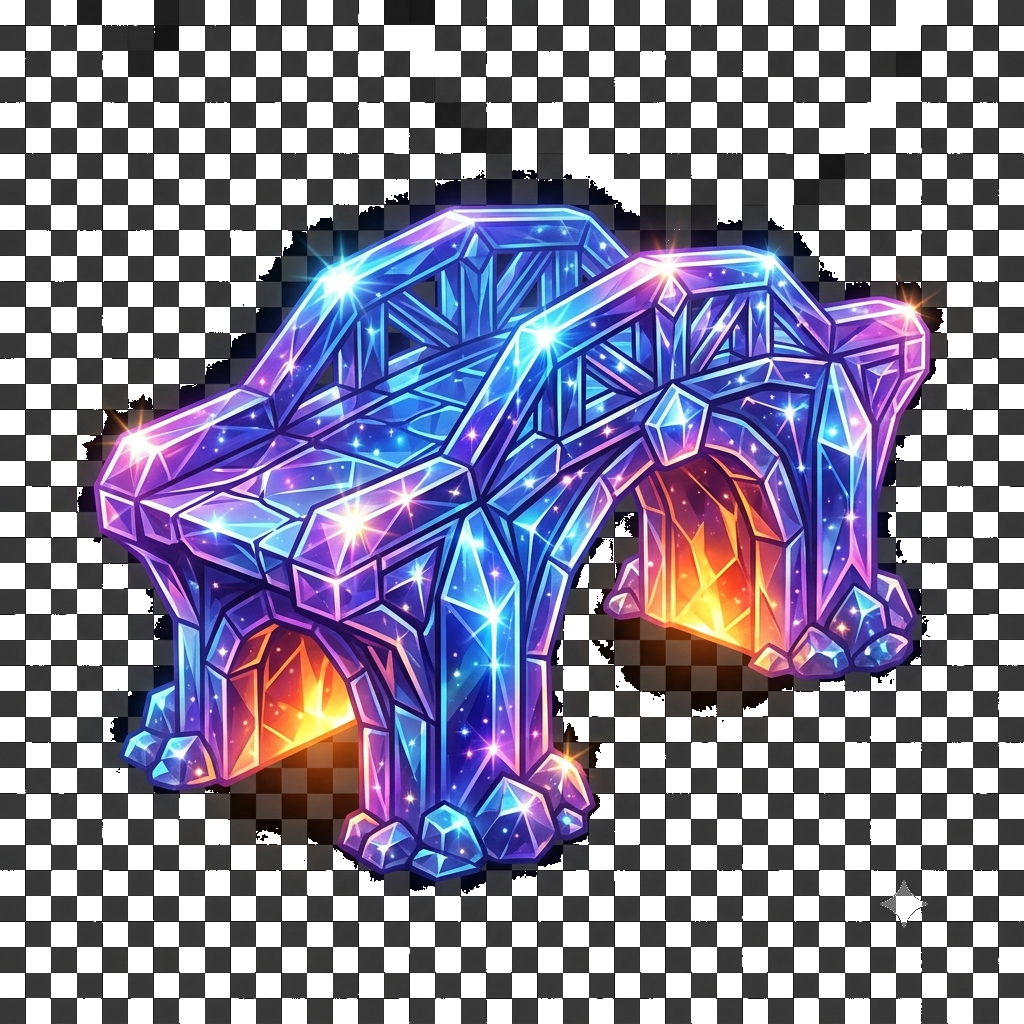
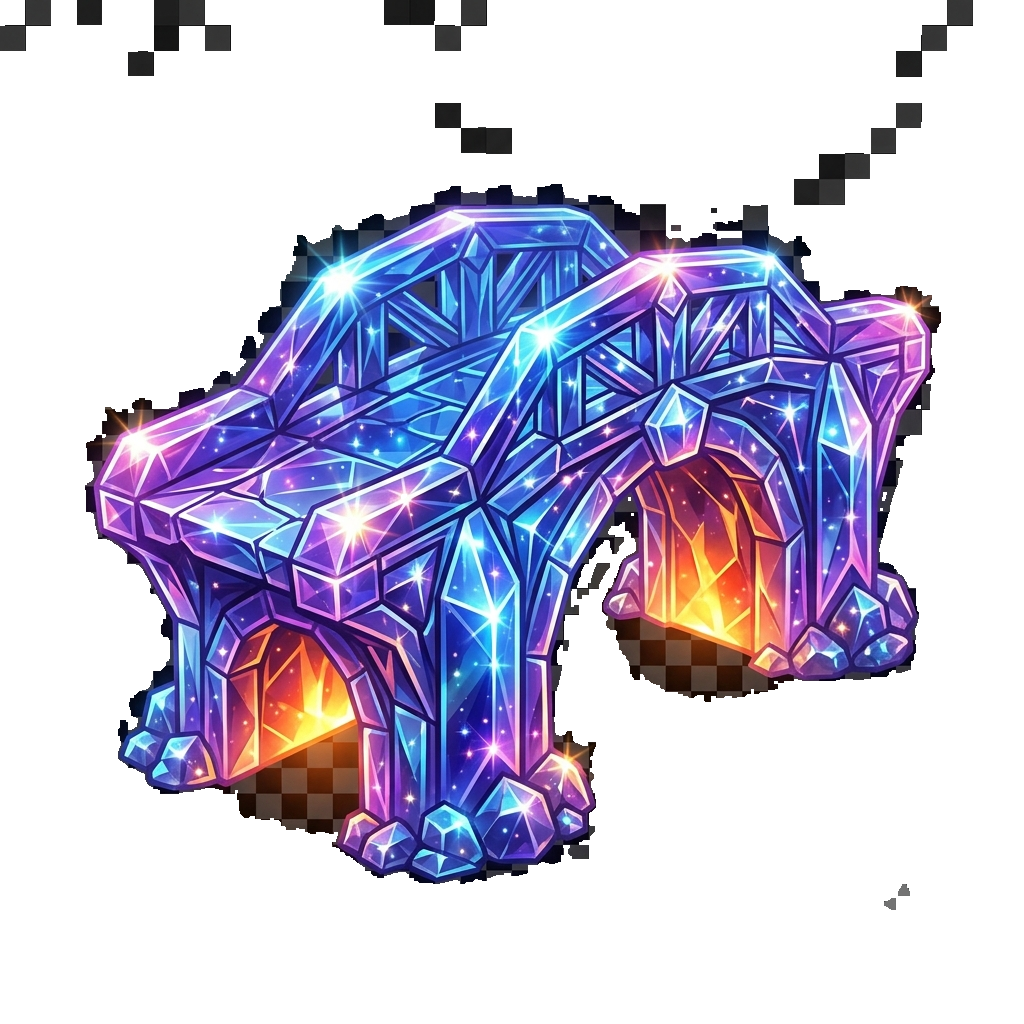
Arreglar transparencia rota de puente/cárcel/minijuego y sumar pulido visual al tablero
Se detectó que puente.png, carcel.png y minijuego.png nunca tuvieron la
transparencia bien aplicada: quedaba un cuadriculado gris (checkerboard)
opaco atravesando el arte, visible en el tablero. Se midió el período
real del cuadriculado por imagen (51px en puente/cárcel, 17px en
minijuego, igual que el del dado) y se limpió con la misma técnica de
diferencia-con-vecino-periódico ya usada esta sesión para el dado.

De paso, primer pase de pulido "candy" sobre el tablero mientras se
evalúa si el estilo plano actual es el que se busca o hace falta algo
más cercano a un diorama ilustrado (pendiente de definir con el
usuario): camino en 3 capas con relieve (FondoCandy no incluye esto,
es en tablero_widget), fondo con manchas de color difuminadas y
brillitos (fondo_candy.dart), casillas con brillo de gomita arriba a
la izquierda, y botón "Tirar el dado" con relieve 3D (boton_candy.dart)
en vez del ElevatedButton plano.

Claude-Session: https://claude.ai/code/session_01CZpFecnhuZMw1LapRQwjQ1

diff --git a/ocaland_app/lib/screens/board_screen.dart b/ocaland_app/lib/screens/board_screen.dart
@@ -13,7 +13,9 @@ import '../models/avatar_sprite_set.dart';
 import '../models/usuario.dart';
 import '../services/supabase_service.dart';
 import '../theme/paleta_bloque.dart';
+import '../widgets/board/boton_candy.dart';
 import '../widgets/board/dado_widget.dart';
+import '../widgets/board/fondo_candy.dart';
 import '../widgets/board/tablero_widget.dart';
 import '../widgets/effects/efectos_visuales.dart';
 import 'cuestionados_dialog.dart';
@@ -475,44 +477,42 @@ class _BoardScreenState extends State<BoardScreen> {
         backgroundColor: paleta.colorAppBar,
         title: Text('Etapa ${_controller.etapa}: ${_etapaInfo.nombre}'),
       ),
-      body: DecoratedBox(
-        decoration: BoxDecoration(
-          gradient: LinearGradient(
-            begin: Alignment.topCenter,
-            end: Alignment.bottomCenter,
-            colors: paleta.gradiente,
+      body: Stack(
+        children: [
+          Positioned.fill(
+            child: FondoCandy(gradiente: paleta.gradiente, acento: paleta.colorAcento),
           ),
-        ),
-        child: SafeArea(
-          child: Padding(
-            padding: const EdgeInsets.all(12),
-            child: Column(
-              children: [
-                Expanded(child: TableroWidget(
-                  layout: _controller.layout,
-                  camino: _controller.camino,
-                  posJugador: _controller.posJugador,
-                  posBot: _controller.posBot,
-                  spriteJugador: _avatarJugador?.caminata,
-                  frameJugador: _frameCaminataJugador,
-                  spriteBot: _avatarBot?.caminata,
-                  frameBot: _frameCaminataBot,
-                )),
-                const SizedBox(height: 8),
-                DadoWidget(controller: _dadoController, tamano: 56),
-                const SizedBox(height: 8),
-                Text(_mensaje, textAlign: TextAlign.center),
-                const SizedBox(height: 12),
-                ElevatedButton.icon(
-                  style: ElevatedButton.styleFrom(backgroundColor: paleta.colorAcento),
-                  onPressed: esperandoJugador ? _tirarDadoJugador : null,
-                  icon: const Icon(Icons.casino),
-                  label: const Text('Tirar el dado'),
-                ),
-              ],
+          SafeArea(
+            child: Padding(
+              padding: const EdgeInsets.all(12),
+              child: Column(
+                children: [
+                  Expanded(child: TableroWidget(
+                    layout: _controller.layout,
+                    camino: _controller.camino,
+                    posJugador: _controller.posJugador,
+                    posBot: _controller.posBot,
+                    spriteJugador: _avatarJugador?.caminata,
+                    frameJugador: _frameCaminataJugador,
+                    spriteBot: _avatarBot?.caminata,
+                    frameBot: _frameCaminataBot,
+                  )),
+                  const SizedBox(height: 8),
+                  DadoWidget(controller: _dadoController, tamano: 56),
+                  const SizedBox(height: 8),
+                  Text(_mensaje, textAlign: TextAlign.center),
+                  const SizedBox(height: 12),
+                  BotonCandy(
+                    icono: Icons.casino,
+                    etiqueta: 'Tirar el dado',
+                    color: paleta.colorAcento,
+                    onPressed: esperandoJugador ? _tirarDadoJugador : null,
+                  ),
+                ],
+              ),
             ),
           ),
-        ),
+        ],
       ),
     );
   }

diff --git a/ocaland_app/lib/widgets/board/tablero_widget.dart b/ocaland_app/lib/widgets/board/tablero_widget.dart
@@ -133,13 +133,6 @@ class _CaminoPainter extends CustomPainter {
 
   @override
   void paint(Canvas canvas, Size size) {
-    final paint = Paint()
-      ..color = Colors.white.withValues(alpha: 0.65)
-      ..strokeWidth = 10
-      ..strokeCap = StrokeCap.round
-      ..strokeJoin = StrokeJoin.round
-      ..style = PaintingStyle.stroke;
-
     final path = Path();
     for (var i = 0; i < puntos.length; i++) {
       final p = Offset(puntos[i].dx * size.width, puntos[i].dy * size.height);
@@ -149,7 +142,24 @@ class _CaminoPainter extends CustomPainter {
         path.lineTo(p.dx, p.dy);
       }
     }
-    canvas.drawPath(path, paint);
+
+    // Camino en 3 capas (borde + cuerpo + brillo central) para que se
+    // vea como un sendero con relieve en vez de una línea plana.
+    void trazo(double ancho, double alpha) {
+      canvas.drawPath(
+        path,
+        Paint()
+          ..color = Colors.white.withValues(alpha: alpha)
+          ..strokeWidth = ancho
+          ..strokeCap = StrokeCap.round
+          ..strokeJoin = StrokeJoin.round
+          ..style = PaintingStyle.stroke,
+      );
+    }
+
+    trazo(17, 0.28);
+    trazo(11, 0.75);
+    trazo(3.5, 0.95);
   }
 
   @override
@@ -195,17 +205,46 @@ class _CasillaCirculo extends StatelessWidget {
           colors: [_colorFondo.withValues(alpha: 0.85), _colorFondo],
           center: const Alignment(-0.3, -0.3),
         ),
-        border: Border.all(color: Colors.white, width: 2),
+        border: Border.all(color: Colors.white, width: 2.5),
         boxShadow: [
           BoxShadow(
-            color: Colors.black.withValues(alpha: 0.2),
-            blurRadius: 3,
-            offset: const Offset(0, 2),
+            color: Colors.black.withValues(alpha: 0.22),
+            blurRadius: 4,
+            offset: const Offset(0, 3),
           ),
         ],
       ),
-      child: Center(
-        child: tipo == TipoCasilla.oca
+      child: Stack(
+        alignment: Alignment.center,
+        children: [
+          // Brillo de "gomita" arriba a la izquierda, para que no se
+          // vea como un círculo de color liso.
+          Positioned(
+            top: radio * 0.14,
+            left: radio * 0.3,
+            child: Container(
+              width: radio * 0.85,
+              height: radio * 0.45,
+              decoration: BoxDecoration(
+                shape: BoxShape.circle,
+                gradient: RadialGradient(
+                  colors: [
+                    Colors.white.withValues(alpha: 0.6),
+                    Colors.white.withValues(alpha: 0),
+                  ],
+                ),
+              ),
+            ),
+          ),
+          _contenido(tipo, posicion, radio),
+        ],
+      ),
+    );
+  }
+
+  Widget _contenido(TipoCasilla tipo, int posicion, double radio) {
+    return Center(
+      child: tipo == TipoCasilla.oca
             ? CicloIconoAnimado(
                 frames: CasillaIconos.framesOca,
                 alto: radio * 1.2,
@@ -232,7 +271,6 @@ class _CasillaCirculo extends StatelessWidget {
             : posicion == 0
             ? const Icon(Icons.flag, color: Colors.white, size: 16)
             : null,
-      ),
     );
   }
 }

diff --git a/ocaland_app/lib/widgets/board/boton_candy.dart b/ocaland_app/lib/widgets/board/boton_candy.dart
@@ -1,0 +1,93 @@
+import 'package:flutter/material.dart';
+
+/// Botón "gomita" tipo Candy Crush: capa de sombra sólida debajo +
+/// capa principal con degradé claro-oscuro y borde blanco, para que se
+/// vea con relieve en vez de un botón Material plano.
+class BotonCandy extends StatelessWidget {
+  const BotonCandy({
+    super.key,
+    required this.icono,
+    required this.etiqueta,
+    required this.color,
+    this.onPressed,
+  });
+
+  final IconData icono;
+  final String etiqueta;
+  final Color color;
+  final VoidCallback? onPressed;
+
+  @override
+  Widget build(BuildContext context) {
+    final habilitado = onPressed != null;
+    final base = habilitado ? color : Colors.grey.shade400;
+    final hsl = HSLColor.fromColor(base);
+    final sombra = hsl.withLightness((hsl.lightness - 0.18).clamp(0.0, 1.0)).toColor();
+    final claro = hsl.withLightness((hsl.lightness + 0.18).clamp(0.0, 1.0)).toColor();
+
+    return Opacity(
+      opacity: habilitado ? 1 : 0.6,
+      child: SizedBox(
+        width: 230,
+        height: 62,
+        child: Stack(
+          clipBehavior: Clip.none,
+          children: [
+            Positioned(
+              top: 8,
+              left: 0,
+              right: 0,
+              child: Container(
+                height: 52,
+                decoration: BoxDecoration(
+                  color: sombra,
+                  borderRadius: BorderRadius.circular(18),
+                ),
+              ),
+            ),
+            Positioned(
+              top: 0,
+              left: 0,
+              right: 0,
+              child: Material(
+                color: Colors.transparent,
+                borderRadius: BorderRadius.circular(18),
+                child: InkWell(
+                  onTap: onPressed,
+                  borderRadius: BorderRadius.circular(18),
+                  child: Container(
+                    height: 52,
+                    decoration: BoxDecoration(
+                      gradient: LinearGradient(
+                        begin: Alignment.topCenter,
+                        end: Alignment.bottomCenter,
+                        colors: [claro, base],
+                      ),
+                      borderRadius: BorderRadius.circular(18),
+                      border: Border.all(color: Colors.white, width: 2.5),
+                    ),
+                    child: Row(
+                      mainAxisAlignment: MainAxisAlignment.center,
+                      children: [
+                        Icon(icono, color: Colors.white),
+                        const SizedBox(width: 8),
+                        Text(
+                          etiqueta,
+                          style: const TextStyle(
+                            color: Colors.white,
+                            fontWeight: FontWeight.bold,
+                            fontSize: 16,
+                          ),
+                        ),
+                      ],
+                    ),
+                  ),
+                ),
+              ),
+            ),
+          ],
+        ),
+      ),
+    );
+  }
+}

diff --git a/ocaland_app/lib/widgets/board/fondo_candy.dart b/ocaland_app/lib/widgets/board/fondo_candy.dart
@@ -1,0 +1,76 @@
+import 'package:flutter/material.dart';
+
+/// Fondo del tablero con profundidad tipo Candy Crush: además del
+/// degradé por bloque de etapas, agrega manchas de color difuminadas
+/// detrás del camino y algunos brillitos, para que no se vea plano.
+class FondoCandy extends StatelessWidget {
+  const FondoCandy({super.key, required this.gradiente, required this.acento});
+
+  final List<Color> gradiente;
+  final Color acento;
+
+  @override
+  Widget build(BuildContext context) {
+    return Stack(
+      fit: StackFit.expand,
+      children: [
+        DecoratedBox(
+          decoration: BoxDecoration(
+            gradient: LinearGradient(
+              begin: Alignment.topCenter,
+              end: Alignment.bottomCenter,
+              colors: gradiente,
+            ),
+          ),
+        ),
+        _mancha(top: -50, left: -60, diametro: 220, color: acento),
+        _mancha(top: 130, right: -80, diametro: 260, color: gradiente.last),
+        _mancha(bottom: 90, left: -60, diametro: 210, color: gradiente.first),
+        _mancha(bottom: -70, right: -40, diametro: 240, color: acento),
+        _brillito(-0.82, -0.86, tamano: 16),
+        _brillito(0.72, -0.6, tamano: 12),
+        _brillito(0.6, 0.02, tamano: 20, opacidad: 0.35),
+        _brillito(-0.62, 0.32, tamano: 14),
+        _brillito(0.8, 0.68, tamano: 18, opacidad: 0.45),
+        _brillito(-0.3, 0.88, tamano: 12),
+      ],
+    );
+  }
+
+  Widget _mancha({
+    double? top,
+    double? bottom,
+    double? left,
+    double? right,
+    required double diametro,
+    required Color color,
+  }) {
+    return Positioned(
+      top: top,
+      bottom: bottom,
+      left: left,
+      right: right,
+      child: Container(
+        width: diametro,
+        height: diametro,
+        decoration: BoxDecoration(
+          shape: BoxShape.circle,
+          gradient: RadialGradient(
+            colors: [color.withValues(alpha: 0.35), color.withValues(alpha: 0)],
+          ),
+        ),
+      ),
+    );
+  }
+
+  Widget _brillito(double fx, double fy, {double tamano = 16, double opacidad = 0.55}) {
+    return Align(
+      alignment: Alignment(fx, fy),
+      child: Icon(
+        Icons.star_rounded,
+        size: tamano,
+        color: Colors.white.withValues(alpha: opacidad),
+      ),
+    );
+  }
+}
